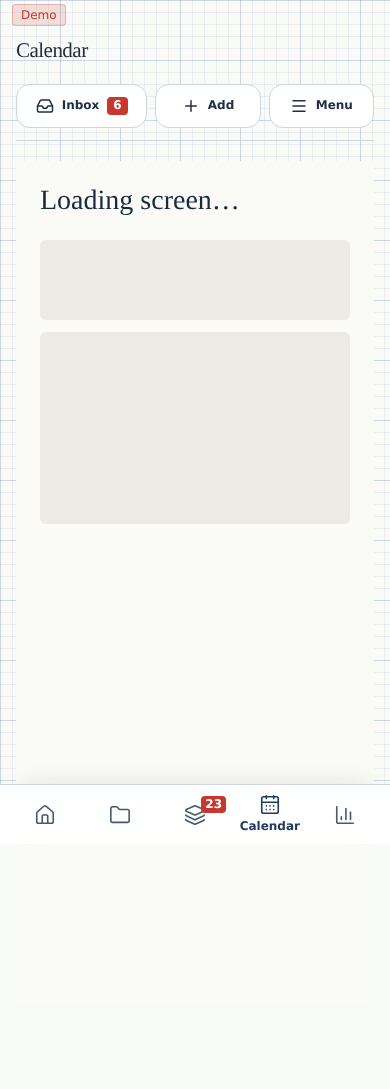
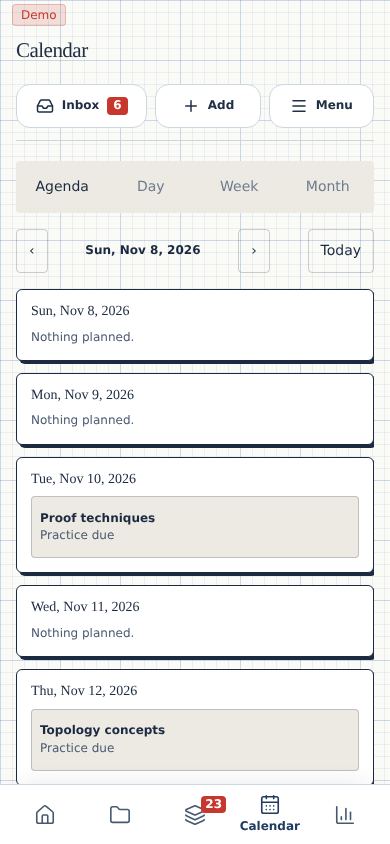
rules: N101 audit waits for loaded screens, real deep links, corrected release doc (#1301)
* rules: N101 audit waits for loaded screens and checks deep-link content

The route matrix and screenshot capture only waited for the v6 header, which is
visible while a lazy route still shows "Loading screen…". Several Day captures were
of that placeholder. Now every check waits for loading and error states to clear,
deep links use real demo ids with expected content, known overflow defects mark only
the overflow measurement as an expected failure, and captures are viewport-sized.

Claude-Session: https://claude.ai/code/session_0172Sf9y142CunRAVpPDgXVw

* TEMP: print release captures for extraction (removed before merge)

* rules: N101 audit matches only '<Thing> loading/unavailable' screen states

Claude-Session: https://claude.ai/code/session_0172Sf9y142CunRAVpPDgXVw

* rules: recaptured N101 screenshots, corrected RELEASE.md, remove temporary capture logging

19 PNGs from run 42497431997 at ccad38e, after each screen loaded (no app code changed
since). RELEASE.md: Review undo is not covered (#1299), parity path, production
migration and account-delete status, audit correction and #1302.

Claude-Session: https://claude.ai/code/session_0172Sf9y142CunRAVpPDgXVw

---------

diff --git a/tests/e2e/v6-release-audit.spec.ts b/tests/e2e/v6-release-audit.spec.ts
@@ -3,17 +3,25 @@ import {test,expect,type Page} from '@playwright/test';
 // N101 audits the Vite build in the same checkout, not the standalone mockup.
 const url=(path:string,stress=false)=>
  './?demo='+(stress?'stress':'1')+'&flags=v6Shell#'+path;
-const routes=[
+// Deep links use ids that exist in the demo fixture; the third entry is text the
+// loaded screen must show, so a "not found" page cannot pass as a deep link.
+const routes:readonly (readonly [string,string,string?])[]=[
  ['Today','/'],['Paths','/projects'],['New path','/projects/new'],
- ['Path','/p/real-analysis'],['Checkpoint','/p/real-analysis/cp/CP4'],
+ ['Path','/p/real-analysis','Real Analysis'],['Checkpoint','/p/real-analysis/cp/CP4','Compactness'],
  ['Session','/s/real-analysis/7'],['Inbox','/proposals'],
- ['Proposal','/proposals/example'],['Review','/review'],
+ ['Proposal','/proposals/proposal-6'],['Review','/review'],
  ['Review round','/review/run'],['Review complete','/review/done'],
- ['Cards','/cards'],['Card','/cards/7'],['Atlas','/atlas'],
+ ['Cards','/cards'],['Card','/cards/7','N7'],['Atlas','/atlas'],
  ['Progress','/insights'],['Settings','/settings'],['Sign in','/sign-in'],
  ['Kit','/kit'],['Calendar','/calendar'],['Tasks','/tasks'],
  ['Time log','/log'],['Practice','/practice'],['Close day','/today/close?date=2026-11-06'],
-] as const;
+];
+// Known release defects: only the sideways-overflow measurement is an expected
+// failure; every other check on these routes still runs and must pass.
+const knownOverflow:Record<string,string>={
+ '320 /':'Known release defect #1298: Today wider than a 320px viewport at 200% text',
+ '320 /kit':'Known release defect #1300: Kit wider than a 320px viewport at 200% text',
+};
 const displays=[{width:320,height:640},{width:360,height:780},{width:390,height:844}] as const;
 const themes=[{name:'Day',value:'graph'},{name:'Night',value:'graph-night'}] as const;
 async function setup(page:Page){
@@ -26,19 +34,29 @@ async function presentation(page:Page,theme:string,large=true){
   document.documentElement.style.fontSize=large?'200%':'100%';
  },{theme,large});
 }
+// A lazy route renders "Loading screen…" inside #main-content and data screens
+// show "Loading …" status text, so the shell alone does not prove the screen loaded.
+async function settled(page:Page,expected?:string){
+ await page.waitForLoadState('networkidle');
+ const main=page.locator('#main-content');
+ await expect(main.getByText(/^Loading\b/),'screen still loading').toHaveCount(0,{timeout:20_000});
+ // Screen states are labelled "<Thing> loading" / "<Thing> unavailable" (e.g. "Project loading").
+ await expect(main.getByRole('region',{name:/^\w+ loading$/})).toHaveCount(0);
+ await expect(main.getByRole('region',{name:/^\w+ unavailable$/}),'deep link shows an unavailable screen').toHaveCount(0);
+ await expect(page.getByText(/^(Couldn’t open this screen|Proposal unavailable\.|This card could not be loaded\.)/),
+  'screen shows an error state').toHaveCount(0);
+ if(expected)await expect(main).toContainText(expected);
+}
 async function contained(page:Page,detail:string){
  const dims=await page.evaluate(()=>({
   content:document.documentElement.scrollWidth,viewport:window.innerWidth,
  }));
  expect(dims.content,detail+' must not scroll sideways').toBeLessThanOrEqual(dims.viewport+1);
 }
-for(const display of displays)for(const theme of themes)for(const [name,path] of routes){
+for(const display of displays)for(const theme of themes)for(const [name,path,expected] of routes){
+ const known=knownOverflow[display.width+' '+path];
  test('N101 '+display.width+'px '+theme.name+' 200% '+name+' '+path,async({page})=>{
   test.setTimeout(90_000);
-  // #1298 remains a real failing overflow assertion. The expected-failure marker
-  // tracks the known defect, rather than skipping this route or declaring G7 green.
-  if(display.width===320&&(path==='/'||path==='/kit'))
-   test.fail(true,path==='/kit'?'Known release defect #1300: Kit 324px content in 320px viewport':'Known release defect #1298: Today 336px content in 320px viewport');
   await page.setViewportSize(display);
   await setup(page);
   const exceptions:string[]=[];
@@ -55,10 +73,21 @@ for(const display of displays)for(const theme of themes)for(const [name,path] of
    await expect(page.getByRole('navigation',{name:'Main navigation'})).toHaveCount(0);
   }
   await expect(page.locator('#main-content')).toBeVisible();
+  await settled(page,expected);
   expect(await page.evaluate(()=>getComputedStyle(document.documentElement).colorScheme))
    .toBe(theme.name==='Night'?'dark':'light');
-  await contained(page,display.width+'px '+theme.name+' '+name);
+  if(!known)await contained(page,display.width+'px '+theme.name+' '+name);
   expect(exceptions,'uncaught browser exceptions on '+name).toEqual([]);
+ });
+ if(known)test('N101 '+display.width+'px '+theme.name+' 200% '+name+' '+path+' overflow',async({page})=>{
+  test.fail(true,known);
+  test.setTimeout(90_000);
+  await page.setViewportSize(display);
+  await setup(page);
+  await page.goto(url(path));
+  await presentation(page,theme.value);
+  await settled(page,expected);
+  await contained(page,display.width+'px '+theme.name+' '+name);
  });
 }
 // The existing docs/v6/screens PNGs are historical mockup captures.
@@ -72,9 +101,11 @@ const captureDir=process.env.LEMMA_RELEASE_CAPTURE==='1'
  ? 'docs/v6/screens' : 'test-results/v6-release/screens';
 
 // Capture PNGs from the actual Vite application, not the historical prototype.
+// Viewport captures (what a 390×844 phone shows): full-page captures drew the
+// fixed bottom navigation over the middle of long screens.
 async function releaseScreenshot(page:Page,file:string){
  await page.screenshot({path:captureDir+'/'+file,
-  fullPage:true,animations:'disabled',scale:'css'});
+  animations:'disabled',scale:'css'});
 }
 
 test('N101 screenshot capture of the real app, both palettes at 390x844',async({page})=>{
@@ -85,10 +116,12 @@ test('N101 screenshot capture of the real app, both palettes at 390x844',async({
   await page.goto(url(path));
   await expect(page.locator('[data-v6-header]')).toBeVisible();
   await presentation(page,theme.value,false);
+  await settled(page);
   await contained(page,'screenshot '+name+'-'+theme.name);
   await releaseScreenshot(page,name+'-'+theme.name.toLowerCase()+'.png');
  }
  await page.goto(url('/'));
+ await settled(page);
  await expect(page.getByRole('textbox',{name:'Focus intention'})).toBeVisible();
  await page.getByRole('textbox',{name:'Focus intention'}).fill('Release capture: focus');
  await page.getByRole('button',{name:'Start focus'}).click();

diff --git a/docs/v6/RELEASE.md b/docs/v6/RELEASE.md
@@ -1,6 +1,6 @@
 # Lemma v6 release audit (N101)
 
-**Release decision: HOLD (G7 defects: [#1298](https://github.com/Mymayankyadav/lemma/issues/1298), [#1299](https://github.com/Mymayankyadav/lemma/issues/1299), [#1300](https://github.com/Mymayankyadav/lemma/issues/1300)).** This is evidence tracking, not approval to make `v6Shell` default-on. N102 still requires the Owner's explicit approval and physical-device sign-off. Browser demo and isolated SQL results do not prove remote migration, MCP or account-delete deployment.
+**Release decision: HOLD (G7 defects: [#1298](https://github.com/Mymayankyadav/lemma/issues/1298), [#1299](https://github.com/Mymayankyadav/lemma/issues/1299), [#1300](https://github.com/Mymayankyadav/lemma/issues/1300), [#1302](https://github.com/Mymayankyadav/lemma/issues/1302)).** This is evidence tracking, not approval to make `v6Shell` default-on. N102 still requires the Owner's explicit approval and physical-device sign-off. Browser demo and isolated SQL results do not prove remote migration, MCP or account-delete deployment.
 
 ## Shipped behind the flag
 
@@ -16,11 +16,15 @@ npx playwright install chromium
 npm run e2e -- tests/e2e/v6-release-audit.spec.ts
 ```
 
-The N101 suite visits all 18 canonical routes and five additional v6 routes (including direct deep links) at 320/360/390px, Day/Night and 200% text. It checks v6 shell navigation, responsive overflow, theme and uncaught browser exceptions. It exercises real demo APIs for Focus pause/resume/Save → reload → Time log → Progress → Calendar/Back, plus Inbox clearance → Review confidence/grade/undo → Atlas → Planner/Escape. See also `v6-harden-slice`, `v6-harden-planning`, `v6-harden-learning`, `v6-rollback` and `acceptance-journey`. These are web/demo journeys, not live-account or physical-device certification.
+The N101 suite visits all 18 canonical routes and five additional v6 routes (including direct deep links) at 320/360/390px, Day/Night and 200% text. It checks v6 shell navigation, responsive overflow, theme and uncaught browser exceptions. It exercises real demo APIs for Focus pause/resume/Save → reload → Time log → Progress → Calendar/Back, plus Inbox clearance → Review confidence/grade → Atlas → Planner/Escape. Review has no undo yet (#1299); a separate expected-failure test tracks it. See also `v6-harden-slice`, `v6-harden-planning`, `v6-harden-learning`, `v6-rollback` and `acceptance-journey`. These are web/demo journeys, not live-account or physical-device certification.
+
+Every route check waits for the screen to finish loading before measuring: no "Loading…" text, no "<Thing> loading" or "<Thing> unavailable" state and no error screen. Deep links use ids that exist in the demo data (path `real-analysis`, checkpoint CP4, session 7, card N7, proposal `proposal-6`), and the path, checkpoint and card links must show their own content. Only the sideways-overflow measurement of the known #1298/#1300 cases is an expected failure; every other check on those routes must pass.
+
+Correction (owner, #1301): the first version of this audit (#1297) measured some screens while they still showed "Loading screen…", used a proposal id that does not exist, and marked whole route tests as expected failures. Its "other routes pass" result is superseded by run [42497431997](https://github.com/Mymayankyadav/lemma/actions/runs/42497431997) at `ccad38e`: 146 tests, 141 passed and 5 expected failures (Today and Kit overflow at 320px in Day and Night, and #1299).
 
 ## Screenshot provenance and capture
 
-The 19 checked-in PNGs under `docs/v6/screens/` are **real application** Chromium renders at 390×844 CSS pixels (Day/Night on nine destinations plus Focus Day). The capture test built and served the Vite/React application, using only a deterministic **demo** account, on CI run [42495300188](https://github.com/Mymayankyadav/lemma/actions/runs/42495300188) at source commit `073e9e9`. This PR commits those real-app images in place of the historical prototype PNGs. No application source changed between capture and commit. These images are browser evidence, not physical-device validation.
+The 19 checked-in PNGs under `docs/v6/screens/` are **real application** Chromium renders of the 390×844 viewport, i.e. what a phone screen shows (Day/Night on nine destinations plus Focus Day). Each capture waits for the screen to finish loading. The capture test built and served the Vite/React application with the deterministic **demo** account, on CI run [42497431997](https://github.com/Mymayankyadav/lemma/actions/runs/42497431997) at source commit `ccad38e`; no application source changed between capture and commit. The first set (#1297, run 42495300188) is superseded: several of its Day images showed the "Loading screen…" placeholder, and its full-page captures drew the bottom navigation across the middle of long screens. These images are browser evidence, not physical-device validation.
 
 To reproduce the checked-in app captures:
 
@@ -34,21 +38,21 @@ Normal CI writes fresh renders to `test-results/v6-release/screens/` and does no
 
 | Gate | Available evidence | Release status |
 | --- | --- | --- |
-| G1 schema coverage | Capability registry, N40, N94 SQL coverage assertion | Isolated audit; remote schema still needs verification |
-| G2 command parity | N94 `tests/mcp/parity.mjs` owner/app/MCP command, retry, version and undo checks | Not a production MCP smoke certificate |
+| G1 schema coverage | Capability registry, N40, N94 SQL coverage assertion | Production: Supabase deploy run [42495185219](https://github.com/Mymayankyadav/lemma/actions/runs/42495185219) (main `dc6630e`) applied every migration through `20261208110100` |
+| G2 command parity | N94 `tests/mcp/sql/parity.mjs` owner/app/MCP command, retry, version and undo checks | Not a production MCP smoke certificate |
 | G3 complete UI data | N98/N99/N100 empty/stress hardening and N101 route matrix | Demo projections; live errors/nulls require owner test |
 | G4 consistency | N94 parity, N98 effort reconciliation, N99 DST and N101 cross-route saved minutes | Second-device and real-owner refresh still required |
 | G5 preserved history | N97 SQL upgrade rehearsal, N96 rollback and N95 export tests | Production backup/restore not asserted |
-| G6 ownership/deletion | N94 two-owner isolation and N103 account deletion SQL | Actual account-delete Edge deployment must be checked |
-| G7 visible behavior | N98/N99/N100/N101 browser specs and capture script | Real-app PNGs checked in; physical checks and #1298/#1299/#1300 pending |
+| G6 ownership/deletion | N94 two-owner isolation and N103 account deletion SQL | `account-delete` Edge Function deployed and active since 2026-11-08; live deletion is on the Owner checklist |
+| G7 visible behavior | N98/N99/N100/N101 browser specs and capture script | Real-app PNGs checked in; physical checks and #1298/#1299/#1300/#1302 pending |
 
-N101 found 320px Today overflow (#1298), missing durable Review undo (#1299), and 320px Kit overflow (#1300). Each remains an open issue. Their expected-failure tests execute and preserve the failing assertions; CI acceptance does not certify that those experiences pass. The release is blocked until the separate bug fixes land.
+N101 found 320px Today overflow (#1298), missing durable Review undo (#1299), and 320px Kit overflow (#1300); the corrected captures also show the Atlas header losing its side padding, so the title overlaps the Demo badge (#1302). Each remains an open issue. Their expected-failure tests execute and preserve the failing assertions; CI acceptance does not certify that those experiences pass. The release is blocked until the separate bug fixes land.
 
 **None of G1–G7 is labelled production-passed merely because the test exists.** Attach CI run IDs and test results for the exact commit and the Owner's accepted device evidence before N102.
 
 ## Known limitations
 
-The flag is default-off. Isolated demo state does not certify cross-device sync, remote RLS, SQL deployment, MCP parity or live deletion. The N103 completion note identifies an account-delete deployment-step regression after an automated revert; verify the endpoint rather than assuming it is deployed. iOS Safari, Android Chrome, installed-PWA keyboard/IME, safe areas, screen-reader behavior and OS Back are outside CI Chromium. The screenshot directory now contains real-app Chromium captures from CI run 42495300188, but not physical-device screenshots. Real calendar providers, recurring blocks and native Focus surfaces are intentionally excluded.
+The flag is default-off. Isolated demo state does not certify cross-device sync, remote RLS, SQL deployment, MCP parity or live deletion. The account-delete deployment step that an automated revert removed was re-landed (#1232) and the function is deployed; live deletion still belongs to the Owner checklist. iOS Safari, Android Chrome, installed-PWA keyboard/IME, safe areas, screen-reader behavior and OS Back are outside CI Chromium. The screenshot directory contains real-app Chromium captures from CI run 42497431997, not physical-device screenshots. Real calendar providers, recurring blocks and native Focus surfaces are intentionally excluded.
 
 ## Owner physical-device checklist (complete before N102)
 

diff --git a/docs/v6/screens/README.md b/docs/v6/screens/README.md
@@ -1,7 +1,7 @@
 # Real application screenshots — N101
 
-These 19 PNGs were captured from the **actual built Vite/React application**, replacing the historic standalone v6 mockup images. The screenshot test `tests/e2e/v6-release-audit.spec.ts` renders the real app at 390×844 CSS pixels with `?demo=1&flags=v6Shell`: both Day/Night on nine screens and Focus in Day. Provenance: source commit `073e9e9`, [CI run 42495300188](https://github.com/Mymayankyadav/lemma/actions/runs/42495300188). App source files were not modified between this run and the image commit.
+These 19 PNGs were captured from the **actual built Vite/React application**, replacing the historic standalone v6 mockup images. The screenshot test `tests/e2e/v6-release-audit.spec.ts` renders the real app's 390×844 viewport with `?demo=1&flags=v6Shell` after each screen has finished loading: both Day/Night on nine screens and Focus in Day. Provenance: source commit `ccad38e`, [CI run 42497431997](https://github.com/Mymayankyadav/lemma/actions/runs/42497431997). App source files were not modified between this run and the image commit. They replace the first set from run 42495300188, several of which showed the loading placeholder.
 
 Reproduce/overwrite the screenshots with `LEMMA_RELEASE_CAPTURE=1 npm run e2e -- tests/e2e/v6-release-audit.spec.ts -g 'N101 screenshot capture'`. A normal CI test writes renders to `test-results/v6-release/screens/` instead.
 
-These files do **not** certify the 320/360/390px audit at 200% text or physical-device behavior. Known G7 defects [#1298](https://github.com/Mymayankyadav/lemma/issues/1298) (Today overflow), [#1299](https://github.com/Mymayankyadav/lemma/issues/1299) (Review Undo), and [#1300](https://github.com/Mymayankyadav/lemma/issues/1300) (Kit overflow) remain open.
+These files do **not** certify the 320/360/390px audit at 200% text or physical-device behavior. Known G7 defects [#1298](https://github.com/Mymayankyadav/lemma/issues/1298) (Today overflow), [#1299](https://github.com/Mymayankyadav/lemma/issues/1299) (Review Undo), and [#1300](https://github.com/Mymayankyadav/lemma/issues/1300) (Kit overflow) and [#1302](https://github.com/Mymayankyadav/lemma/issues/1302) (Atlas header padding) remain open.

diff --git a/docs/current/N101.md b/docs/current/N101.md
@@ -7,3 +7,5 @@ Added a full 23-route Playwright browser matrix at 320/360/390px, explicit Day/N
 Known release defects filed as [#1298](https://github.com/Mymayankyadav/lemma/issues/1298) (320px Today overflow at 200% text), [#1299](https://github.com/Mymayankyadav/lemma/issues/1299) (v6 Review grade has no Undo), and [#1300](https://github.com/Mymayankyadav/lemma/issues/1300) (320px Kit overflow). The browser suite exercises these as known expected failures rather than silently marking G7 passed.
 
 All 19 screenshots now come from the actual Vite app (run 42495300188, source `073e9e9`) and replace historical mockup PNGs. The 138-case browser route matrix identifies the three tracked release defects while other routes pass. The Owner's physical-device and live-data checks remain required by N102; G7 remains HOLD.
+
+Owner correction (#1301): route checks and captures now wait for each screen to finish loading, deep links use existing demo ids with content checks, and only the overflow measurement of the known defects is an expected failure. Screenshots recaptured (run 42497431997, `ccad38e`). The corrected captures exposed #1302 (Atlas header padding). RELEASE.md facts corrected: Review undo is not covered, parity test path, and production migration and account-delete deployment status.
